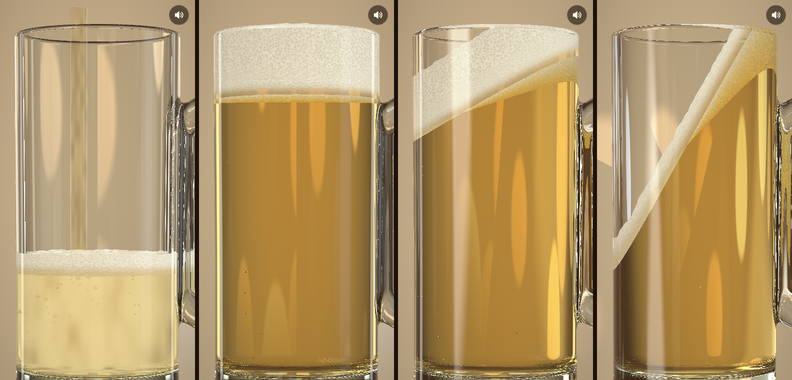
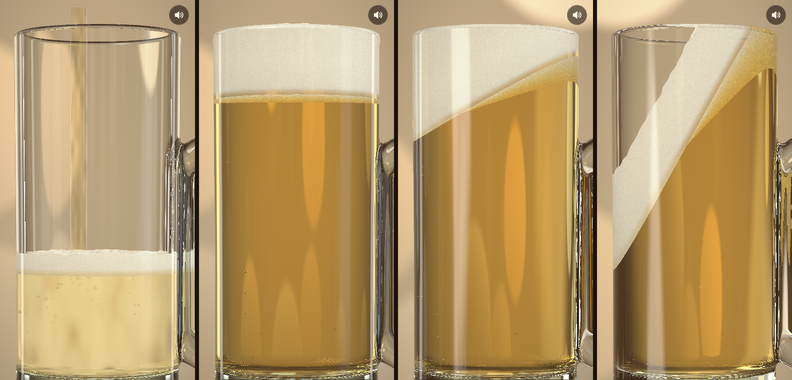
泡をきめ細かくし、消える速さをさらに速くする
- 泡の見た目：1.3mm ほどの泡の輪郭がはっきりした粗い模様をやめ、0.4mm ほどの細かい泡を
  控えめな明暗で敷き詰めてクリーム状に見せる。液面のすぐ上だけ少し大きな泡とビールの色を混ぜる。
  高さで泡の大きさを変えていたせいで模様が引き伸ばされた帯ができていたのも直す。
  泡が画素より小さくなるとき（動いている間の低い解像度など）は模様を薄めてちらつかせない
- 泡が痩せる時定数を 200 秒から 80 秒にする。1 分で約 5 割、2 分で約 3 割、3 分で約 2 割、
  その後は薄い膜が残る
- README の画像を今の見た目に撮り直す

Claude-Session: https://claude.ai/code/session_016v5S5dVMbTspNLNh9pNXhg

diff --git a/src/shader.js b/src/shader.js
@@ -397,22 +397,38 @@ void throughBubble(vec3 hp, vec3 c, float R, inout vec3 rd, inout vec3 p, inout 
   p = e + rd * 2.0 * EPS;
 }
 
+// 1 画素が何 mm にあたるか（main で決める）。細かい模様が画素より小さくなったら、ちらつかないよう薄める。
+float gPix = 0.2;
+
 // 泡の層の見た目。ガラスに押し付けられた泡の膜（ボロノイ）が透けて見える。
-// depth は液面からの高さ。液面に近いほど泡が大きく、ビールの色が混じる。
+// きめ細かいクリーム状の泡にする：泡は 0.4mm ほどで、膜の明暗は控えめ。液面のすぐ上だけ少し大きな泡が混じる。
+// depth は液面からの高さ (mm)。glassSide はガラス越しに見るとき 1、上から見るとき 0。
 vec3 foamColor(vec3 hp, vec3 n, float depth, float glassSide) {
   vec3 off;
-  float sc = mix(0.32, 0.75, smoothstep(0.0, 12.0, depth));
-  vec2 v = voronoi(hp * sc, off);
-  float wall = 1.0 - smoothstep(0.0, mix(0.1, 0.22, glassSide), v.y - v.x);
-  float cell = pow(clamp(1.0 - v.x * 1.25, 0.0, 1.0), 2.0);
+  // 細かい泡（0.4mm ほど）。画素より小さくなるほど模様を薄める。
+  const float FINE = 2.4;
+  vec2 vf = voronoi(hp * FINE, off);
+  float kf = smoothstep(1.0, 2.2, 1.0 / (FINE * gPix));
+  float wallF = 1.0 - smoothstep(0.0, 0.18, vf.y - vf.x);
+  float cellF = clamp(1.0 - vf.x * 1.4, 0.0, 1.0);
+  // 液面のすぐ上の、少し大きな泡（1mm ほど）。
+  const float MID = 1.0;
+  vec2 vm = voronoi(hp * MID + 7.3, off);
+  float near = 1.0 - smoothstep(0.0, 4.0, depth);
+  float wallM = 1.0 - smoothstep(0.0, 0.12, vm.y - vm.x);
+
   float wrap = dot(n, uLightL) * 0.5 + 0.5;
-  vec3 c = mix(FOAM_SHADE, FOAM_COL, 0.55 + 0.45 * wrap);
-  c *= 0.92 + 0.3 * wrap;
-  c = mix(c, c * 1.12 + 0.04, wall * glassSide);
-  c *= 1.0 - 0.18 * cell * glassSide;
-  // 液面の近くは、大きな泡越しにビールの色がのぞく。
-  float beer = 1.0 - smoothstep(0.0, 6.0, depth);
-  c = mix(c, vec3(0.95, 0.62, 0.16) * (0.5 + 0.4 * wrap), beer * 0.7);
+  vec3 c = mix(FOAM_SHADE, FOAM_COL, 0.62 + 0.38 * wrap);
+  c *= 0.95 + 0.25 * wrap;
+  // 上ほど空気を多く含んで白く、液面に近いほど少し濃い。
+  c *= mix(0.93, 1.03, smoothstep(0.0, 18.0, depth));
+  float g = mix(0.45, 1.0, glassSide);
+  // 膜は明るく、泡の中は少し暗く。泡の真ん中には小さな光の点。
+  c *= 1.0 + kf * g * (0.16 * wallF - 0.12 * cellF + 0.1 * pow(cellF, 6.0) * wrap);
+  c *= 1.0 + near * g * (0.10 * wallM - 0.06);
+  // 液面の近くは、泡越しにビールの色が少しのぞく。
+  float beer = 1.0 - smoothstep(0.0, 3.0, depth);
+  c = mix(c, vec3(0.95, 0.66, 0.2) * (0.55 + 0.4 * wrap), beer * 0.6);
   return c;
 }
 
@@ -513,7 +529,7 @@ vec3 trace(vec3 ro, vec3 rd) {
     if (kind == 3) {
       // 上から泡の層に当たった。
       vec3 n = foamNormal(hp);
-      vec3 c = foamColor(hp * 1.3, n, dot(hp, uLiq.xyz) - uLiq.w, 0.0);
+      vec3 c = foamColor(hp, n, dot(hp, uLiq.xyz) - uLiq.w, 0.0);
       float F = 0.03 + 0.5 * pow(1.0 - max(dot(-rd, n), 0.0), 5.0);
       return col + thru * (c * (1.0 - F) + F * sky(reflect(rd, n)));
     }
@@ -598,6 +614,7 @@ vec3 tonemap(vec3 c) {
 void main() {
   vec2 uv = (gl_FragCoord.xy / uRes) * 2.0 - 1.0;
   uv.x *= uRes.x / uRes.y;
+  gPix = 2.0 * uTanHalf * length(uCamPos - uPivot) / uRes.y;
   vec3 rd = normalize(uView * vec3(uv * uTanHalf + uCamShift, -1.0));
   vec3 ro = uView * (uCamPos - uPivot) + uPivot;
   vec3 c = trace(ro, rd);

diff --git a/src/beer.js b/src/beer.js
@@ -25,9 +25,9 @@ const POUR_TIME = 6.5; // 注ぎきるまでの秒数
 const POUR_HEAD = 0.35; // 注ぎ口から液面まで流れが落ちてくる秒数
 // 立てたときの泡の量（注ぎ終わりの目安）。注いでいる間は少し多めに立ち、落ち着くとこれに戻る。
 const FOAM_FULL = volumeBelow([0, 1, 0], FOAM_TOP, DOME_MAX) - FULL_VOLUME;
-// 泡は時間とともにゆっくり痩せ、最後は薄い膜が残る（2 分で約 6 割、5 分で約 3 割）。
+// 泡は時間とともに痩せ、最後は薄い膜が残る（1 分で約 5 割、2 分で約 3 割、3 分で約 2 割）。
 const FOAM_MIN = FOAM_FULL * 0.1;
-const FOAM_FADE = 200; // 痩せる時定数 (秒)
+const FOAM_FADE = 80; // 痩せる時定数 (秒)
 
 const GULP = 0.5; // ゴクッのリズム (秒)
 const GULP_FLOW = 0.34; // そのうち、のどに流れ込んでいる時間 (秒)

diff --git a/README.md b/README.md
@@ -60,7 +60,7 @@ http://localhost:5184 を開きます。
 **注ぐ・飲む。** [`src/beer.js`](src/beer.js) が中身を受け持ちます。
 
 - 注ぐ：6.5 秒かけて注ぎ、勢いで泡が立つ。満ちるほど泡の割合が増え、注ぎ終わると 3 秒ほどで落ち着く
-- 泡は時間とともにゆっくり痩せる。2 分で約 6 割、5 分で約 3 割になり、最後は薄い膜が残る
+- 泡は時間とともに痩せる。1 分で約 5 割、2 分で約 3 割、3 分で約 2 割になり、最後は薄い膜が残る
 - 注いだ直後はビール全体が細かい泡で濁り、だんだん澄んでいく
 - 炭酸：ジョッキの底と壁の決まった場所から、泡が列になって上る
 - 飲む：0.5 秒ごとに「ゴクッ」。そのうち 0.34 秒の間だけ縁からビールが流れ込むので、液面が脈打つように下がる
@@ -70,7 +70,7 @@ http://localhost:5184 を開きます。
 
 - 光線は空気→ガラス→ビール→ガラス…と面を越えるたびに、フレネル反射と屈折に分かれる
 - ガラスとビールは、通った距離のぶん色を吸収する。ビールは青をよく吸うので、厚いところほど濃い琥珀色になる
-- 泡の層は、ガラスに押し付けられた泡の膜の模様（ボロノイ）を描く。液面に近いほど泡が大きく、ビールの色がのぞく
+- 泡の層は、ガラスに押し付けられた泡の膜の模様（ボロノイ）を描く。0.4mm ほどの細かい泡を、明暗を控えめにしてクリーム状に見せ、液面のすぐ上だけ少し大きな泡とビールの色を混ぜる。泡が画面の画素より小さくなるときは模様を薄めて、ちらつかないようにする
 - 液面、炭酸の泡、注ぐ流れは式で直接交点を求め、ガラスと泡の層は距離場をたどって探す
 - 光線の行き先は居酒屋。ジョッキの後ろのやわらかく明るい壁、店の明かりのぼけ、木のカウンターがある
 
